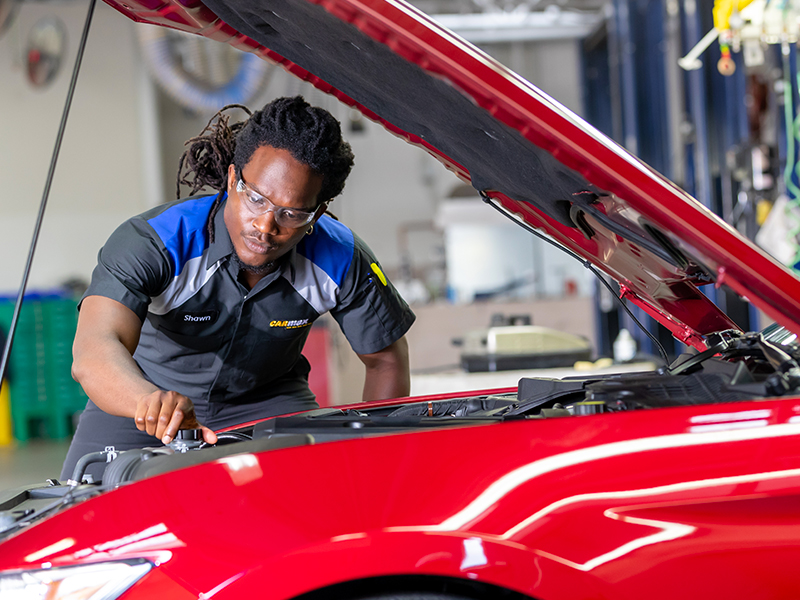
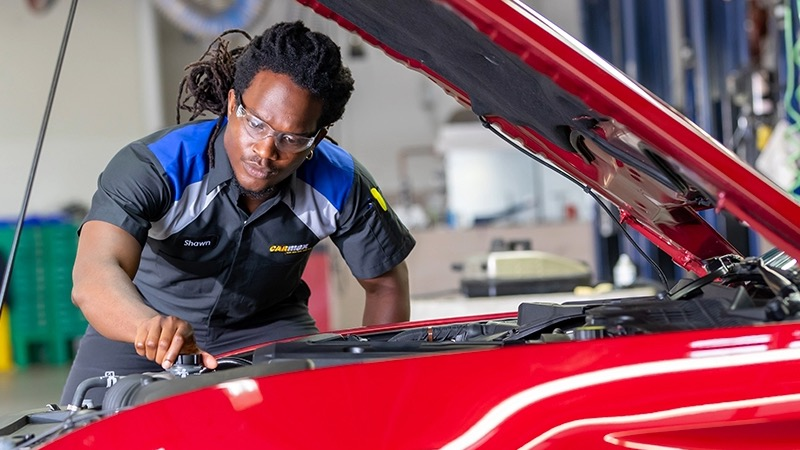
fix image sizing

diff --git a/src/app/page.tsx b/src/app/page.tsx
@@ -1,4 +1,11 @@
+"use client";
 import Image from "next/image";
+import ImageBackground from "next/image";
+// import { View, StyleSheet } from "react-native";
+import React, { useState, useEffect } from 'react';
+import { FontAwesomeIcon } from '@fortawesome/react-fontawesome';
+import { faArrowLeft, faArrowRight } from '@fortawesome/free-solid-svg-icons';
+// import 'tailwindcss/tailwind.css';
 
 export default function Home() {
   const hours = [
@@ -10,20 +17,65 @@ export default function Home() {
     ["Saturday", "Closed"],
     ["Sunday", "Closed"],
   ];
+  const work = [
+    ["/work1.jpg", "work1"],
+    ["/work2.jpg", "work2"],
+    ["/work3.jpg", "work3"],
+  ]
+  const [currentIndex, setCurrentIndex] = useState(0);
+  const handlePrev = () => {
+    setCurrentIndex((prevIndex) => (prevIndex + 2) % 3);
+  };
+  const handleNext = () => {
+    setCurrentIndex((prevIndex) => (prevIndex + 1) % 3);
+  };
   return (
-    <div className="min-h-screen bg-[#8A1118] p-6 sm:p-20 font-[family-name:var(--font-geist-sans)] text-white">
-      <main className="max-w-4x1 mx-auto flex flex-col items-center sm:items-start gap-16">
-        <Image
-          className="dark:invert w-full"
-          src="/brownleeautomotive.png"
-          alt="brownlee_logo"
-          width={220}
-          height={40}
-          priority
-        />
-        <section className="text-sm font-[family-name:var(--font-geist-mono)] text-center">
-          <p className="tracking-tight text-center">Family owned and operated since 1987</p>
+    <div className="min-h-screen bg-[#8A1118] p-6 sm:p-20 font-[family-name:var(--font-geist-sans)] text-white text-center">
+      <main className="max-w-8xl mx-auto flex flex-col items-center gap-8">
+        <section className="sm:text-8xl text-4xl font-[family-name:var(--font-geist-mono)] text-center items-center">
+          <p className="tracking-tight text-center">BROWNLEE AUTOMOTIVE</p>
         </section>
+
+        <section className="text-xl font-sans items-center">
+          <p className="tracking-tight text-center">Family owned and operated since 1987</p>
+          <p className="tracking-tight text-center">We work on all makes and models</p>
+        </section>
+
+        <section className="w-full flex flex-col items-center">
+          <div className="w-full relative">
+            <button
+              onClick={handlePrev}
+              className={`absolute left-4 top-1/2 transform -translate-y-1/2 px-4 py-2 bg-gray text-white rounded disabled:opacity-50 z-10`}
+            >
+            <FontAwesomeIcon icon={faArrowLeft} className="lg" />
+            </button>
+        
+            {work.slice(currentIndex, currentIndex + 1).map(([src, alt]) => (
+              <div key={alt} className="w-full">
+                <div className="aspect-w-16 aspect-h-9">
+                <Image
+                  key={alt}
+                  className="dark:invert"
+                  src={src}
+                  alt={alt}
+                  width={0}
+                  height={0}
+                  sizes="100vw"
+                  style={{ width: '100%', height: 'auto' }}
+                  priority
+                />
+                </div>
+              </div>
+            ))}
+            <button
+              onClick={handleNext}
+              className={`absolute right-4 top-1/2 transform -translate-y-1/2 px-4 py-2 bg-gray text-white rounded disabled:opacity-50 z-10`}
+            >
+            <FontAwesomeIcon icon={faArrowRight} className="lg" />
+            </button>
+          </div>
+        </section>
+
         <section className="text-sm font-[family-name:var(--font-geist-mono)] text-center sm:text-left">
           <p className="tracking-tight">📞 +1 (770) 469-9660</p>
           <p className="tracking-tight">📍 6573 James B Rivers Memorial Dr, Stone Mountain, GA 30083</p>
@@ -59,7 +111,7 @@ export default function Home() {
         </section>
         <section className="w-full text-black text-sm grid grid-cols-1 sm:grid-cols-2 gap-4">
           <p className="bg-white rounded shadow-lg leading-relaxed text-sm p-6">I recently had my truck's transmission repaired at Brownlee Automotive, and I couldn't be happier with the service. Brett, the service technician, was extremely knowledgeable and efficient, ensuring the repair was done right the first time. I highly recommend Brownlee Automotive for their excellent work and professional staff.</p>
-          <p className="bg-white rounded shadow-lg leading-relaxed text-sm p-6">Dan has something to say probably</p>
+          <p className="bg-white rounded shadow-lg leading-relaxed text-sm p-6">RL and Brett at Brownlee Automotive have kept my 2004 Honda Oddysey running for over 380 thousand miles</p>
         </section>
         <div className="relative w-full max-w-md mx-auto">
           <input
